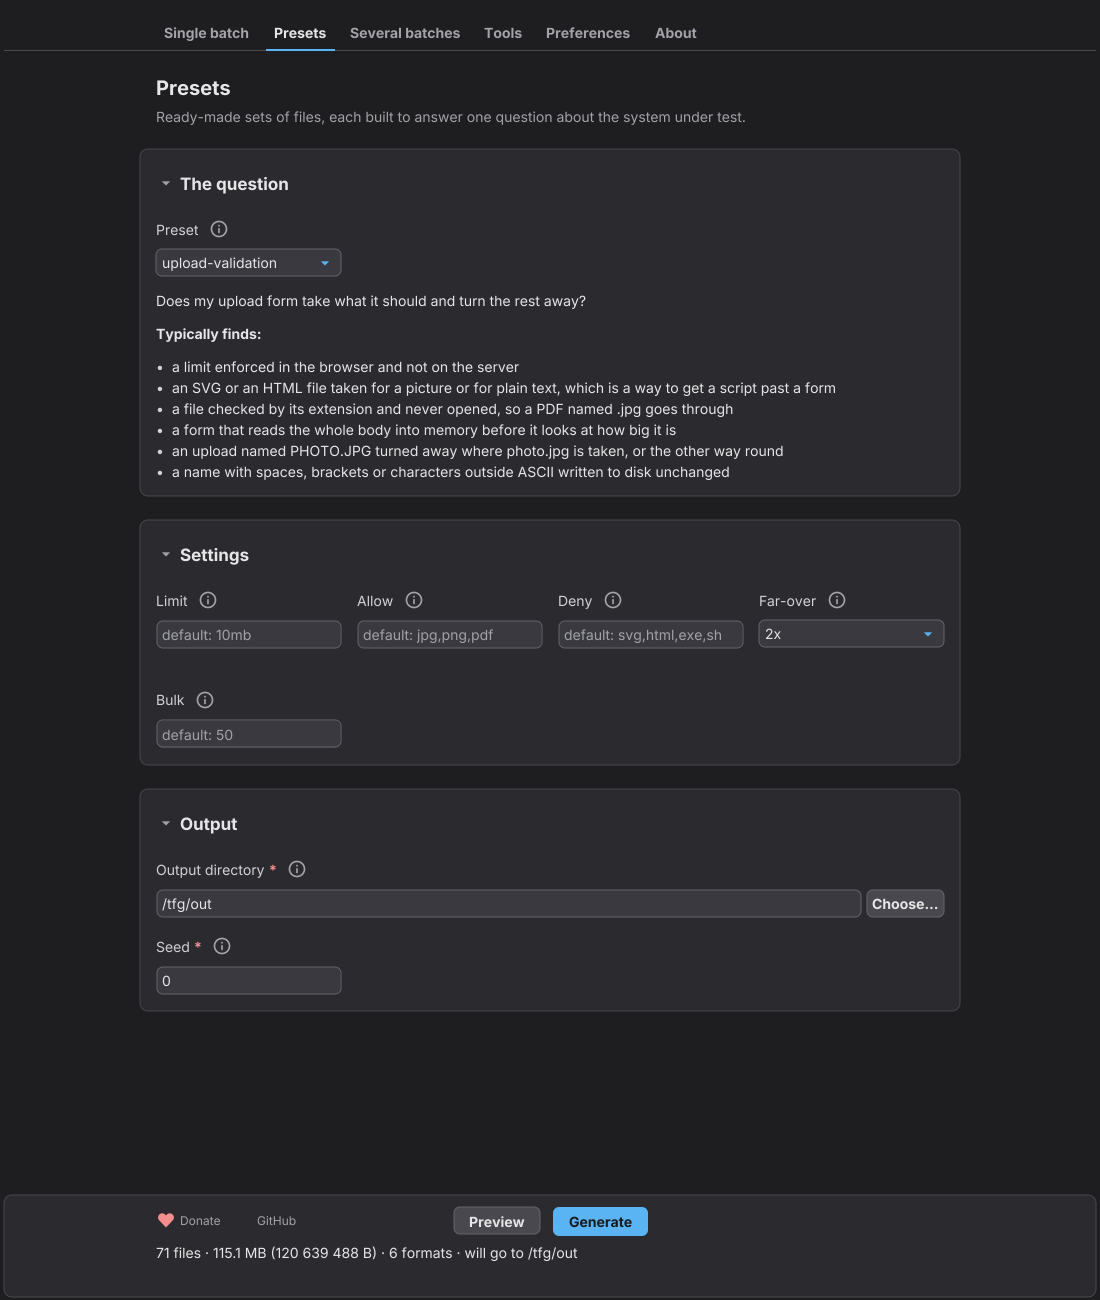
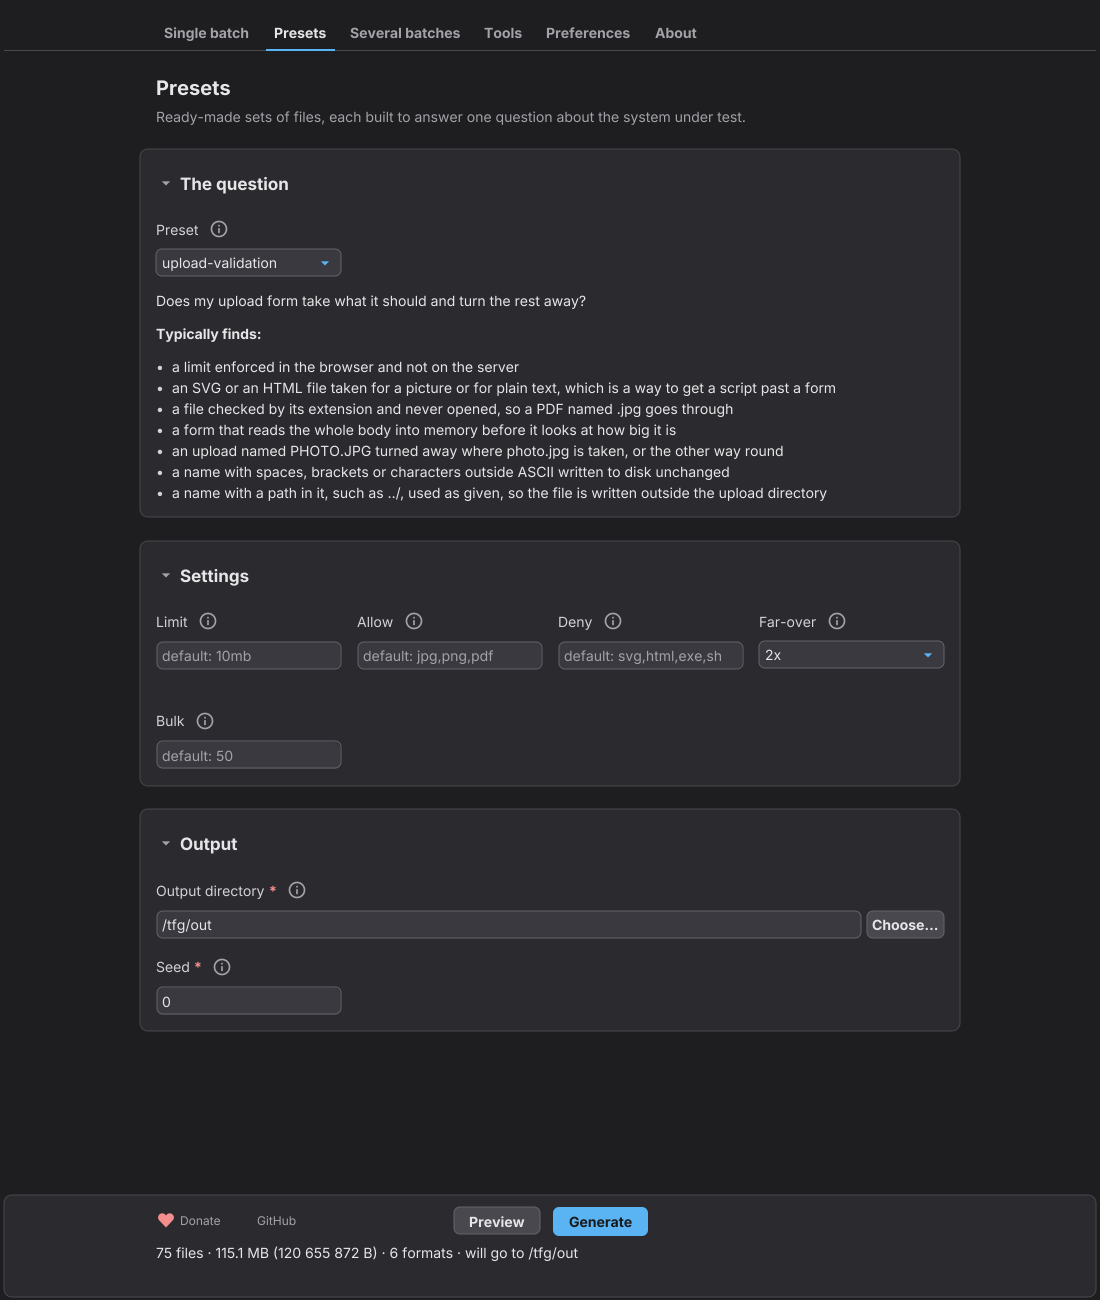
The four names that leave the directory stand last in the upload set, and a refused manifest name no longer points at send-as
The upload set:
- The four files sent under a name that leaves the upload directory now
  come after the mass upload. A file's id in the manifest is its place in
  the run, so beside the other names they moved the id of every file of
  the mass upload. Measured against the tree before the setting: each of
  the 71 files the default set wrote keeps its bytes, its hash and its id.
- Their purposes name the file to look for with its extension, which is
  the name it was sent under.
- The recipe the preset ejects is four targets longer, so the pinned sums
  of upload-validation move and the changelog says what that does to
  recipe_hash.

Refusals and instructions:
- A path in output.manifest is told to choose the directory. It was told
  about send-as, which does nothing for a manifest.
- A name quoted in the instructions says the quotes make every character
  readable and are not part of the name. It said part of the name cannot
  be seen, which is false of a name quoted for a space at its edge.

Guards that ask the program for a list and had no answer for the new key:
the window parity list, the wrong-shape case, the article for the setting
and for its box, and the stored picture of the preset screen. The recipe
screen guard now types a name into Send as and reads it from the manifest.

The upload examples in the Python README set a timeout.

Mutation entries: five more, two moved with the code, and one that left an
unused import behind now compiles.

diff --git a/internal/guard/sendas_test.go b/internal/guard/sendas_test.go
@@ -30,11 +30,12 @@ import (
 // JSON a consumer receives rather than into the manifest package's own type,
 // so a field renamed there fails here instead of following along.
 type sentFile struct {
-	Path   string  `json:"path"`
-	Name   string  `json:"name"`
-	SendAs *string `json:"send_as"`
-	Group  string  `json:"group"`
-	Hashes struct {
+	Path    string  `json:"path"`
+	Name    string  `json:"name"`
+	SendAs  *string `json:"send_as"`
+	Group   string  `json:"group"`
+	Purpose string  `json:"purpose"`
+	Hashes  struct {
 		SHA256 string `json:"sha256"`
 	} `json:"hashes"`
 	Expected struct {
@@ -323,6 +324,22 @@ func TestARefusedPathInANameSaysWhereSuchANameGoes(t *testing.T) {
 	if len(files) != 1 || files[0].Name != "climbed_out.txt" || files[0].SendAs == nil || *files[0].SendAs != "../climbed_out.txt" {
 		t.Errorf("following the refusal gave %+v, expected climbed_out.txt sent as ../climbed_out.txt", files)
 	}
+
+	// The manifest is refused for the same reason and is never uploaded
+	// anywhere, so its refusal names the directory and stops there.
+	recipeDir := t.TempDir()
+	src := "version: 1\ntargets:\n  - id: a\n    format: txt\n    size: 1kb\n" +
+		"output:\n  dir: ./out\n  manifest: sub/run.json\n"
+	code, _, said = run(t, "generate", writeRecipe(t, recipeDir, src))
+	if code != cli.ExitRecipe || !strings.Contains(said, "which is a path rather than a file name") {
+		t.Fatalf("a path in output.manifest ended %d, expected the refusal of a path with %d: %s", code, cli.ExitRecipe, said)
+	}
+	if !strings.Contains(said, "Choose the directory with the output setting") {
+		t.Errorf("the refusal of a path in the manifest name does not say where a directory is chosen:\n%s", said)
+	}
+	if strings.Contains(said, "send-as") {
+		t.Errorf("the refusal of a path in the manifest name points at send-as, which does nothing for a manifest:\n%s", said)
+	}
 }
 
 // The instructions beside a manifest say under which name to hand a file over,
@@ -337,6 +354,7 @@ func TestTheInstructionsSayUnderWhichNameToSendAFile(t *testing.T) {
 		"  - id: climbing\n    format: txt\n    size: 1kb\n    purpose: A name that climbs.\n    send-as: ..\\climbed_out.txt\n" +
 		"  - id: several\n    format: txt\n    size: 1kb\n    count: 3\n    purpose: Three under one name.\n    send-as: /tmp/climbed_out.txt\n" +
 		"  - id: unseen\n    format: txt\n    size: 1kb\n    purpose: A name cut short.\n    send-as: \"a.php\\0.jpg\"\n" +
+		"  - id: spaced\n    format: txt\n    size: 1kb\n    purpose: A name that starts with a space.\n    send-as: \" leading.txt\"\n" +
 		"  - id: ordinary\n    format: txt\n    size: 1kb\n    purpose: Nothing special.\n"
 	if code, _, said := run(t, "generate", writeRecipe(t, dir, src), "--out", out); code != cli.ExitOK {
 		t.Fatalf("the run ended %d: %s", code, said)
@@ -351,13 +369,24 @@ func TestTheInstructionsSayUnderWhichNameToSendAFile(t *testing.T) {
 		"Send it under the name `..\\climbed_out.txt`, not the name on disk.\n",
 		"Send each of them under the name `/tmp/climbed_out.txt`, not the name on disk.\n",
 		"Send it under the name `\"a.php\\x00.jpg\"`, not the name on disk. The name is given in double quotes with escapes",
+		"Send it under the name `\" leading.txt\"`, not the name on disk. The name is given in double quotes with escapes",
 	} {
 		if !strings.Contains(text, want) {
 			t.Errorf("the instructions do not hold the line %q:\n%s", want, text)
 		}
 	}
-	if n := strings.Count(text, "under the name"); n != 3 {
-		t.Errorf("%d entries say under which name to send a file, and three targets asked for one:\n%s", n, text)
+	if n := strings.Count(text, "under the name"); n != 4 {
+		t.Errorf("%d entries say under which name to send a file, and four targets asked for one:\n%s", n, text)
+	}
+	// A name is quoted for a space at its edge as well as for a character
+	// nobody can see, and every character of " leading.txt" can be seen. So
+	// the sentence about the quotes gives the one reason true of both, and
+	// says the quotes are not sent.
+	if n := strings.Count(text, "The quotes around it are not part of the name."); n != 2 {
+		t.Errorf("%d quoted names say that the quotes are not part of the name, expected both of them:\n%s", n, text)
+	}
+	if strings.Contains(text, "cannot be seen") {
+		t.Errorf("the instructions say part of a name cannot be seen, which is false of a name quoted for a space at its edge:\n%s", text)
 	}
 	if strings.ContainsRune(text, 0) {
 		t.Error("the instructions hold a raw null character - a name nobody can see is written as an escape")
@@ -429,12 +458,38 @@ func TestTheUploadSetSendsFourFilesUnderNamesThatLeaveTheDirectory(t *testing.T)
 				t.Errorf("--allow %s: %s expects %s (%s), expected unspecified (filename_traversal) - both refusing and storing under a clean name are right",
 					c.allow, name, f.Expected.Outcome, f.Expected.Reason)
 			}
+			// The name to look for afterwards is the one the file was sent
+			// under, extension and all. Somebody searching for the bare word
+			// as a whole name finds nothing and calls an open form closed.
+			if !strings.Contains(f.Purpose, "no file called tfg_climbed_out"+c.extension) {
+				t.Errorf("--allow %s: the purpose of %s does not name tfg_climbed_out%s as the file to look for:\n%s", c.allow, name, c.extension, f.Purpose)
+			}
 			if f.Group != "hostile-names" {
 				t.Errorf("--allow %s: %s is in the group %q, expected hostile-names", c.allow, name, f.Group)
 			}
 		}
 		if len(ways) != 4 {
 			t.Errorf("--allow %s: the four names leave the directory in %d different ways, expected four: %v", c.allow, len(ways), ways)
+		}
+	}
+
+	// The four stand last in the run, after the mass upload. A file's id is its
+	// place in the manifest, so put anywhere else they would have moved the id
+	// of every file after them, and an id is the handle a test written against
+	// an earlier version of the set holds.
+	dir := filepath.Join(t.TempDir(), "out")
+	if code, _, said := run(t, "generate", "--preset", "upload-validation", "--limit", "64kb",
+		"--bulk", "2", "--far-over", "off", "--out", dir); code != cli.ExitOK {
+		t.Fatalf("the preset with a mass upload ended %d: %s", code, said)
+	}
+	files := sentFiles(t, dir)
+	if len(files) < 6 || files[len(files)-5].Group != "bulk-upload" {
+		t.Fatalf("the run of %d files does not hold a mass upload just before its last four, so this says nothing about what follows what", len(files))
+	}
+	for i, f := range files {
+		if last := i >= len(files)-4; (f.SendAs != nil) != last {
+			t.Errorf("%s stands at place %d of %d and send_as set is %t - the four names that leave the directory are the last four of the run",
+				f.Name, i+1, len(files), f.SendAs != nil)
 		}
 	}
 

diff --git a/internal/guard/presetbytes_test.go b/internal/guard/presetbytes_test.go
@@ -61,13 +61,21 @@ func TestEjectingAPresetGivesTheBytesItAlwaysGave(t *testing.T) {
[2 lines of base64/hex data omitted]
 		{id: "size-boundaries", args: preset.Args{"format": "jpg", "limit": "300", "spread": "100"}, refused: "the preset size-boundaries cannot build this set - under_100 would be 200 B and the smallest JPG this build makes is 602 B. Raise the limit above 702 B, narrow the spread, or choose a format with a smaller minimum. The limit asked for was 300 B."},
[2 lines of base64/hex data omitted]
+		// Every upload-validation row moved on 2026-11-10: the set gained four
+		// files sent under a name that leaves the upload directory, which is
+		// four targets more in the recipe (docs/SEND-AS-2026-11-10.md). The
+		// same shape as 2026-10-06, a Changed entry and no major: measured on
+		// the default set against the tree before, each of the 71 files it
+		// wrote keeps its bytes, its hash and its id, because the four stand
+		// last in the run. What moves is the recipe_hash of a run from the
+		// preset.
[2 lines of base64/hex data omitted]
 		{id: "upload-validation", args: preset.Args{"limit": "3kb"}, refused: "the preset upload-validation cannot build this set - allowed_pdf would be 1536 B and the smallest PDF this build makes is 3415 B. Raise the limit to 6830 B or more, or take pdf out of the allowed types. The limit asked for was 3072 B."},
[11 lines of base64/hex data omitted]

diff --git a/internal/guard/mutation/entries.py b/internal/guard/mutation/entries.py
@@ -17439,14 +17439,14 @@ MUTATIONS = [
         "a name to send under that is not UTF-8 reaches the manifest, which carries another one",
         "internal/engine/filename.go",
         "\tcase !utf8.ValidString(t.SendAs):",
-        "\tcase false:",
+        "\tcase !utf8.ValidString(\"\"):",
         "TestANameToSendUnderThatCannotBeCarriedIsRefused",
     ),
     (
         "the refusal of a path in a name stops saying where such a name goes",
         "internal/engine/filename.go",
-        "\t\t\tRemedy:  keepTheNameAndSendItAs()}",
-        "\t\t\tRemedy:  chooseTheDirectory()}",
+        "\tif setting == SettingName {",
+        "\tif false {",
         "TestARefusedPathInANameSaysWhereSuchANameGoes",
     ),
     (
@@ -17500,9 +17500,9 @@ MUTATIONS = [
     ),
     (
         "the upload set leaves out the four names that climb out of the directory",
-        "internal/preset/uploadfiles.go",
-        "\treturn append(s.storableNames(desc, size), s.climbingNames(desc, size)...)",
-        "\treturn s.storableNames(desc, size)",
+        "internal/preset/uploadset.go",
+        "\tout = append(out, s.climbingNames()...)\n\treturn out",
+        "\treturn out",
         "TestTheUploadSetSendsFourFilesUnderNamesThatLeaveTheDirectory",
     ),
     (
@@ -17532,5 +17532,40 @@ MUTATIONS = [
         "\tFailed bool   `json:\"failed,omitempty\"`",
         "\tFailed bool   `json:\"failed\"`",
         "TestAnEntryOfTheManifestKeepsItsKeysWhereTheyWere",
+    ),
+    (
+        "the refusal of a path in the manifest name points at send-as, which does nothing for a manifest",
+        "internal/engine/filename.go",
+        "\tif setting == SettingName {",
+        "\tif true {",
+        "TestARefusedPathInANameSaysWhereSuchANameGoes",
+    ),
+    (
+        "a name quoted in the instructions no longer says why it is quoted, or that the quotes are not sent",
+        "internal/manifest/instructions.go",
+        "\tif shown != f.SendAs {",
+        "\tif false {",
+        "TestTheInstructionsSayUnderWhichNameToSendAFile",
+    ),
+    (
+        "the four names that leave the directory stand before the mass upload and move the id of every file after them",
+        "internal/preset/uploadset.go",
+        "\tout = append(out, s.bulkFiles()...)\n\tout = append(out, s.climbingNames()...)",
+        "\tout = append(out, s.climbingNames()...)\n\tout = append(out, s.bulkFiles()...)",
+        "TestTheUploadSetSendsFourFilesUnderNamesThatLeaveTheDirectory",
+    ),
+    (
+        "the purpose of a file sent to /tmp names the file to look for without its extension",
+        "internal/preset/uploadfiles.go",
+        "check+\" Then check that /tmp holds no file called \"+landing+\".\"),",
+        "check+\" Then check that /tmp holds no file called \"+climbedOut+\".\"),",
+        "TestTheUploadSetSendsFourFilesUnderNamesThatLeaveTheDirectory",
+    ),
+    (
+        "the batches screen draws a Send as box and drops what is typed in it",
+        "internal/gui/window/recipe.go",
+        "\t\tSendAs:         b.notes.sendAs.Text,",
+        "\t\tSendAs:         \"\",",
+        "TestWhatIsTypedOnTheRecipeScreenIsWhatGetsWritten",
     ),
 ]

diff --git a/internal/preset/uploadfiles.go b/internal/preset/uploadfiles.go
@@ -154,7 +154,7 @@ func (s uploadSet) anomalyFiles() []setFile {
 }
 
 // nameFiles is three names a form has to write to disk, or refuse for a reason
-// it can say out loud, and four it must never use as given.
+// it can say out loud. The four it must never use as given are climbingNames.
 //
 // The names are what they are on purpose: a long one for a column that is 255
 // characters wide, one outside ASCII for a path handled as bytes, and one with
@@ -162,8 +162,7 @@ func (s uploadSet) anomalyFiles() []setFile {
 // did not quote it.
 func (s uploadSet) nameFiles() []setFile {
 	desc := s.allowed[0]
-	size := sampleFor(desc)
-	return append(s.storableNames(desc, size), s.climbingNames(desc, size)...)
+	return s.storableNames(desc, sampleFor(desc))
 }
 
 // climbedOut is the name the four files below ask to be stored under, once
@@ -192,7 +191,9 @@ const climbedOut = "tfg_climbed_out"
 // are right - refuse the name, or store the file under a name with no path in
 // it - and the wrong one, writing outside the directory, cannot be seen in
 // what the form answers (MF5).
-func (s uploadSet) climbingNames(desc format.Descriptor, size int64) []setFile {
+func (s uploadSet) climbingNames() []setFile {
+	desc := s.allowed[0]
+	size := sampleFor(desc)
 	landing := climbedOut + desc.Extension
 	check := "Your form should turn the name away or store the file under a name with no path in it."
 	file := func(id, sendAs, purpose string) setFile {
@@ -204,16 +205,16 @@ func (s uploadSet) climbingNames(desc format.Descriptor, size int64) []setFile {
 	return []setFile{
 		file("climbing_name", "../"+landing,
 			"A name that steps one directory up, written with a forward slash. A form that joins the name to its upload directory writes the file outside it. "+
-				check+" Then check that no file called "+climbedOut+" appeared above the upload directory."),
+				check+" Then check that no file called "+landing+" appeared above the upload directory."),
 		file("climbing_name_backslash", `..`+bs+landing,
 			"The same step up written with a backslash, which only Windows reads as a separator. A check made on Linux lets the name through whole, and a Windows machine that stores the file later steps out. "+
-				check+" Then check that no file called "+climbedOut+" appeared above the upload directory."),
+				check+" Then check that no file called "+landing+" appeared above the upload directory."),
 		file("absolute_name", "/tmp/"+landing,
 			"A name that is a whole path on Linux and macOS, starting at the root of the disk. A form that uses it as given writes to /tmp. "+
-				check+" Then check that /tmp holds no file called "+climbedOut+"."),
+				check+" Then check that /tmp holds no file called "+landing+"."),
 		file("drive_name", `C:`+bs+`Windows`+bs+`Temp`+bs+landing,
 			"A name that is a whole path on Windows, drive letter included. A form that uses it as given writes to that folder. "+
-				check+" Then check that the folder holds no file called "+climbedOut+"."),
+				check+" Then check that the folder holds no file called "+landing+"."),
 	}
 }
 

diff --git a/internal/engine/filename.go b/internal/engine/filename.go
@@ -33,7 +33,7 @@ func checkFileName(setting string, where core.Said, name string) error {
 		return &RecipeError{Setting: setting,
 			Detail:  core.Says("engine.NameIsAPath", "%s produces the name %q, which is a path rather than a file name", core.A("Where", where), core.A("Name", name)),
 			Because: core.Says("engine.NameIsAPathWhy", "names stay inside the output directory, and a separator is refused on every system so that a recipe works everywhere"),
-			Remedy:  keepTheNameAndSendItAs()}
+			Remedy:  wayOutOfAPath(setting)}
 
 	// A colon, on every system, for the same reason as a separator.
 	//
@@ -167,6 +167,19 @@ func checkFileName(setting string, where core.Said, name string) error {
 // chooseTheDirectory is the way out of a name that tries to be a place.
 func chooseTheDirectory() core.Said {
 	return core.Says("engine.ChooseTheDirectory", "Choose the directory with the output setting instead")
+}
+
+// wayOutOfAPath is what a name refused for holding a separator is told to do.
+//
+// Only the name of a target's files can be sent under another one. The
+// manifest and the instructions beside it are never uploaded anywhere, so
+// naming send-as for them would send their reader to a setting that does
+// nothing for the file in front of them.
+func wayOutOfAPath(setting string) core.Said {
+	if setting == SettingName {
+		return keepTheNameAndSendItAs()
+	}
+	return chooseTheDirectory()
 }
 
 // keepTheNameAndSendItAs is the way out for somebody who wants the path in the

diff --git a/internal/guard/settingslot_test.go b/internal/guard/settingslot_test.go
@@ -186,13 +186,14 @@ func TestEveryNameARefusalCanBeGivenTakesTheArticleThisRuleGivesIt(t *testing.T)
 		"paragraphs": "a", "rows": "a", "columns": "a", "slides": "a",
 		"depth": "a", "colours": "a", "records": "a", "lines": "a",
 		"damage": "a", "bytes": "a", "formats": "a", "purpose": "a",
+		"send-as": "a",
 		// The batch screen's base section: the switch, and the two recipe
 		// keys behind it. The parameters under with.<name> arrive as the
 		// preset's own names, which are above.
 		"start_from_preset": "a", "extends": "an", "with": "a",
 		// Labels, which is what a window shows.
 		"Batch name": "a", "How many files": "a", "File names": "a", "Size": "a",
-		"Damage": "a", "Purpose": "a",
+		"Damage": "a", "Purpose": "a", "Send as": "a",
 		"Format": "a", "Seed": "a", "Output directory": "an", "Kind of case": "a",
 		"Around a limit": "an", "Size range": "a", "Expected outcome": "an",
 		"Limit to test": "a", "One size": "a", "A range": "a",

diff --git a/internal/preset/uploadset.go b/internal/preset/uploadset.go
@@ -311,6 +311,13 @@ func expandUploadValidation(args Args) ([]byte, error) {
 }
 
 // files is every file of the set except the three around the limit.
+//
+// The order is the order of the manifest, and a file's id there is its place
+// in the run. So a kind of file added to the set goes last, as the names that
+// leave the directory did: put beside the other names they would have moved
+// the id of every file of the mass upload, which is the handle a test written
+// against an earlier version holds. The instructions gather a group from
+// wherever its files stand, so a reader still finds them with the other names.
 func (s uploadSet) files() []setFile {
 	var out []setFile
 	out = append(out, s.farOverFiles()...)
@@ -321,6 +328,7 @@ func (s uploadSet) files() []setFile {
 	out = append(out, s.anomalyFiles()...)
 	out = append(out, s.nameFiles()...)
 	out = append(out, s.bulkFiles()...)
+	out = append(out, s.climbingNames()...)
 	return out
 }
 

diff --git a/internal/guard/recipeshapes_test.go b/internal/guard/recipeshapes_test.go
@@ -134,6 +134,7 @@ var shapeCases = map[string]string{
 	"name":       "version: 1\ntargets:\n  - id: a\n    format: txt\n    size: 1kb\n    name: {a: b}\noutput:\n  dir: ./o\n",
 	"group":      "version: 1\ntargets:\n  - id: a\n    format: txt\n    size: 1kb\n    group: {a: b}\noutput:\n  dir: ./o\n",
 	"purpose":    "version: 1\ntargets:\n  - id: a\n    format: txt\n    size: 1kb\n    purpose: {a: b}\noutput:\n  dir: ./o\n",
+	"send-as":    "version: 1\ntargets:\n  - id: a\n    format: txt\n    size: 1kb\n    send-as: {a: b}\noutput:\n  dir: ./o\n",
 	"count":      "version: 1\ntargets:\n  - id: a\n    format: txt\n    size: 1kb\n    count: {a: b}\noutput:\n  dir: ./o\n",
 	"size":       "version: 1\ntargets:\n  - id: a\n    format: txt\n    size: {a: b}\noutput:\n  dir: ./o\n",
 	"size-range": "version: 1\ntargets:\n  - id: a\n    format: txt\n    size-range: {a: b}\noutput:\n  dir: ./o\n",

diff --git a/internal/guard/recipescreen_test.go b/internal/guard/recipescreen_test.go
@@ -357,6 +357,7 @@ func TestWhatIsTypedOnTheRecipeScreenIsWhatGetsWritten(t *testing.T) {
 	set(1, recipe.KeySize, "1kb")
 	set(1, recipe.KeyCount, "2")
 	set(1, recipe.KeyGroup, "smoke")
+	set(1, recipe.KeySendAs, "../docs_climbed.txt")
 	choose(1, recipe.KeyExpected, "accept")
 
 	// A boundary set: three files, one byte either side of a limit. The way of
@@ -401,6 +402,7 @@ func TestWhatIsTypedOnTheRecipeScreenIsWhatGetsWritten(t *testing.T) {
 
 	for field, value := range map[string]string{
 		"the class of the first batch": `"group": "smoke"`,
+		"the name to send them under":  `"send_as": "../docs_climbed.txt"`,
 		"the declared expectation":     `"outcome": "accept"`,
 		"the label switch":             `"label_embedded": false`,
 		"the seed":                     `"seed": 4242`,

diff --git a/internal/manifest/instructions.go b/internal/manifest/instructions.go
@@ -170,7 +170,7 @@ func writeSendAs(b *strings.Builder, f File, what string) {
 	shown := core.ShownExactly(f.SendAs)
 	fmt.Fprintf(b, "  Send %s under the name %s, not the name on disk.", what, codeSpan(shown))
 	if shown != f.SendAs {
-		b.WriteString(" The name is given in double quotes with escapes, because part of it cannot be seen.")
+		b.WriteString(" The name is given in double quotes with escapes, so that every character of it can be read. The quotes around it are not part of the name.")
 	}
 	b.WriteString("\n")
 }

diff --git a/internal/guard/parity_test.go b/internal/guard/parity_test.go
@@ -336,6 +336,9 @@ var reachableFromTheWindow = []string{
 	"recipe:targets.group",
 	// The box under the batch's manifest notes, since 2026-09-25.
 	"recipe:targets.purpose",
+	// The box beside it, since 2026-11-10: the name a file is handed to the
+	// system under test under, when no disk stores it.
+	"recipe:targets.send-as",
 	"recipe:targets.boundary",
 	"recipe:targets.contains",
 	"recipe:targets.expected",

diff --git a/python/testing-files-generator/README.md b/python/testing-files-generator/README.md
@@ -161,7 +161,7 @@ import requests
 @pytest.mark.parametrize("file", uploads.params())
 def test_upload_api(file):
     with open(file.path(), "rb") as body:
-        response = requests.post("http://localhost:3000/upload", files={"file": (file.send_as, body)})
+        response = requests.post("http://localhost:3000/upload", files={"file": (file.send_as, body)}, timeout=30)
     assert response.status_code < 500, "a server error is not a refusal"
     file.check("accept" if response.ok else {"outcome": "reject", "reason": response.json().get("reason")})
 ```
@@ -225,7 +225,7 @@ climbing = [file for file in uploads.files if file.send_as != file.name]
 @pytest.mark.parametrize("file", climbing, ids=lambda file: file.title)
 def test_a_name_with_a_path_stays_inside_the_upload_directory(file):
     with open(file.path(), "rb") as body:
-        requests.post("http://localhost:3000/upload", files={"file": (file.send_as, body)})
+        requests.post("http://localhost:3000/upload", files={"file": (file.send_as, body)}, timeout=30)
     # Your own check: nothing called tfg_climbed_out is above the upload directory.
 ```
 
@@ -362,7 +362,7 @@ class Uploads(unittest.TestCase):
                 if file.unspecified:
                     self.skipTest(file.why_unspecified)
                 with open(file.path(), "rb") as body:
-                    response = requests.post("http://localhost:3000/upload", files={"file": (file.send_as, body)})
+                    response = requests.post("http://localhost:3000/upload", files={"file": (file.send_as, body)}, timeout=30)
                 self.assertLess(response.status_code, 500, "a server error is not a refusal")
                 file.check("accept" if response.ok else "reject")
 ```
